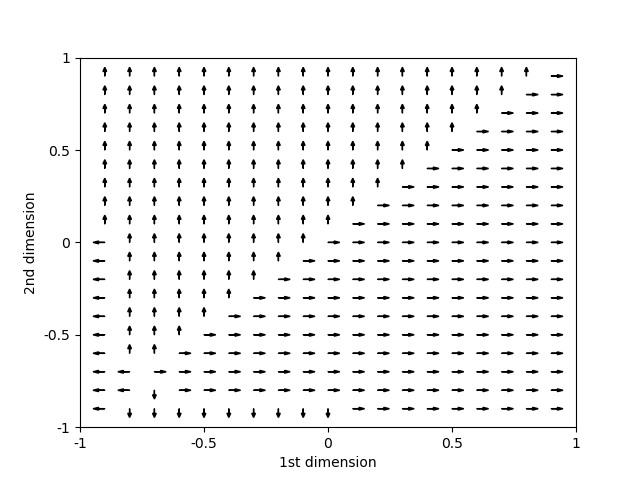
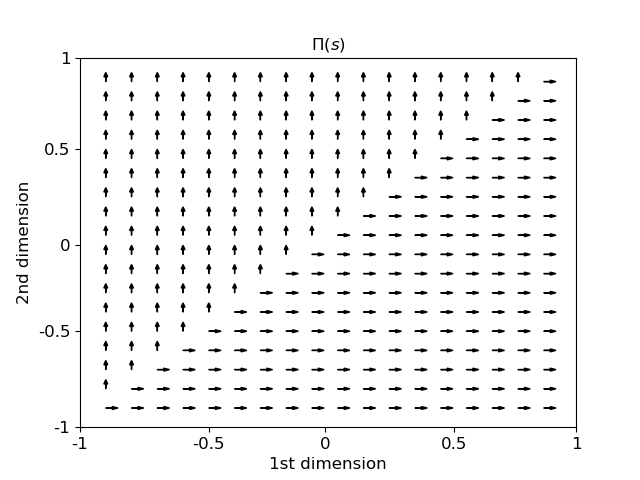
add discrete

diff --git a/Studies/Study_discrete/discrete.py b/Studies/Study_discrete/discrete.py
@@ -5,73 +5,56 @@ import matplotlib.pyplot as plt
 import matplotlib
 
 
+
 def value_iteration(mdp, state_size, action_size, value_iter=10, gamma=0.9):
-
     V_old = np.zeros((state_size))
-
     for _ in range(value_iter):
         V_new = np.zeros(state_size)
         for state, _ in enumerate(V_new):
-
             actions = list(mdp[state].keys())
             action_values = np.zeros(action_size)
-
             for action in actions:
                 temp=0
                 for new_state in mdp[state][action]:
                     temp += new_state[0] * (new_state[2] + gamma * V_old[new_state[1]])
                 action_values[action]=temp
             V_new[state] = np.max(action_values)
-
         V_old = V_new
-
     Policy = np.zeros((state_size, action_size))
-
     for state, _ in enumerate(V_old):
         argmax = 0
         value = float("-inf")
-
         actions = list(mdp[state].keys())
         action_values = np.zeros(action_size)
-
         for action in actions:
             temp=0
             for new_state in mdp[state][action]:
                 temp += new_state[0] * (new_state[2] + gamma * V_old[new_state[1]])
             action_values[action]=temp
-
-        print(Policy[state])
-        if len(Policy[state]) > 0:
+        if len(mdp[state]) > 0:
             Policy[state][actions[np.argmax(action_values)]] = 1
-
     return V_old, Policy
 
 
 
 def next_state(state,action,n_discrete):
-
     if action == 0: #left
         if state%n_discrete > 0:
             return state-1
-
     if action == 1: #right
         if state%n_discrete < n_discrete-1:
             return state+1
-
     if action == 2: #up
         if state//n_discrete < n_discrete-1:
             return state+n_discrete
-
     if action == 3: #down
         if state//n_discrete > 0:
             return state-n_discrete
-    
     return state
 
 
 
 def reward(state,n_discrete):
-
     if state%n_discrete == 0 or state//n_discrete == 0:
         return 0.1
     elif state%n_discrete == n_discrete-1 or state//n_discrete == n_discrete-1:
@@ -80,57 +63,45 @@ def reward(state,n_discrete):
         return 0
 
 
-def mdp_hypercube_2(n_discrete=21):
 
+def mdp_hypercube_2(n_discrete=21):
     actions = np.arange(4) #0:left 1:right 2:up 3:down
     mdp = dict()
-
     for lin in range(n_discrete):
         for col in range(n_discrete):
             state = col + lin * n_discrete
             mdp[state]=dict()
-            for action in actions:
-                next_state_v = next_state(state,action,n_discrete)
-                reward_v = reward(next_state_v,n_discrete)
-                if reward_v > 0:
-                    done = True
-                else:
-                    done = False
-                if not done:
+            done = reward(state,n_discrete) > 0
+            if not done:
+                for action in actions:
+                    next_state_v = next_state(state,action,n_discrete)
+                    reward_v = reward(next_state_v,n_discrete)
+                    done = reward_v > 0
                     mdp[state][action]=[(1,next_state_v,reward_v,done)]
-
     return mdp
 
 
 
-if __name__ == "__main__":
-
-    n_discrete=82
-    mdp = mdp_hypercube_2(n_discrete)
-
-    """
-    ##policy iteration
-    values, policy = policy_iteration(mdp,n_discrete**2,4,20,20,0.2)
-    """
-
-    ##value iteration
-    values, policy = value_iteration(mdp,n_discrete**2,4,50,0.99)
-
+def plot_contour(values,n_discrete):
     fig, ax = plt.subplots(1)
+    plt.title('$V(s)$',fontsize=12)
     plt.set_cmap('RdYlGn')
-    colorset = ax.imshow(values.reshape((n_discrete,n_discrete)),origin="lower")
-    #,norm = matplotlib.colors.LogNorm(), )
+    values = values.reshape((n_discrete,n_discrete))
+    values = values[1:-1,1:-1]
+    colorset = ax.imshow(values,origin="lower")
     colorbar = fig.colorbar(colorset)
-    colorbar.ax.set_ylabel('Q values')
-    #colorbar.set_clim(0.1,1)
-    plt.xticks([0,5,10,15,20], [-1,-0.5,0,0.5,1])
-    plt.yticks([0,5,10,15,20], [-1,-0.5,0,0.5,1])
-    ax.set_xlabel('1st dimension')
-    ax.set_ylabel('2nd dimension')
+    colorbar.ax.tick_params(labelsize=12)
+    colorbar.set_clim(0.1,1)
+    plt.xticks([0,n_discrete//4,n_discrete//2-2,3*n_discrete//4-2,n_discrete-3], [-1,-0.5,0,0.5,1],fontsize=12)
+    plt.yticks([0,n_discrete//4,n_discrete//2-2,3*n_discrete//4-2,n_discrete-3], [-1,-0.5,0,0.5,1],fontsize=12)
+    ax.set_xlabel('1st dimension',fontsize=12)
+    ax.set_ylabel('2nd dimension',fontsize=12)
     plt.show()
-
     fig.savefig("discrete_contour.png")
 
+
+
+def plot_arrow(policy,n_discrete):
     a = np.arange(0,n_discrete,2)
     b = np.arange(0,n_discrete//2,2)
     states = np.arange((n_discrete)**2).reshape((n_discrete,n_discrete))
@@ -147,8 +118,8 @@ if __name__ == "__main__":
     pis = pis[:,b]
     pis = pis[1:-1,1:-1]
     pis = pis.flatten()
-
     fig, ax = plt.subplots(1)
+    plt.title('$\Pi(s)$',fontsize=12)
     for pi,state in zip(pis,states):
         x_pos , y_pos = state%(n_discrete) , state//(n_discrete)
         if pi == 0: #left
@@ -159,12 +130,19 @@ if __name__ == "__main__":
             x_pi , y_pi = 0 , 1
         if pi == 3: #down
             x_pi , y_pi = 0 , -1
-        #plt.plot(x_pos, y_pos, '.', color="black")
         plt.arrow(x_pos, y_pos, x_pi, y_pi, color="black", width=0.03, head_width=0.6)
-    plt.xticks([0,20,40,60,80], [-1,-0.5,0,0.5,1])
-    plt.yticks([0,20,40,60,80], [-1,-0.5,0,0.5,1])
-    plt.xlabel('1st dimension')
-    plt.ylabel('2nd dimension')
+    plt.xticks([0,n_discrete//4,n_discrete//2-2,3*n_discrete//4-2,n_discrete-3], [-1,-0.5,0,0.5,1],fontsize=12)
+    plt.yticks([0,n_discrete//4,n_discrete//2-2,3*n_discrete//4-2,n_discrete-3], [-1,-0.5,0,0.5,1],fontsize=12)
+    plt.xlabel('1st dimension',fontsize=12)
+    plt.ylabel('2nd dimension',fontsize=12)
     plt.show()
-
     fig.savefig("discrete_arrow.png")
+
+
+
+if __name__ == "__main__":
+    n_discrete=80
+    mdp = mdp_hypercube_2(n_discrete)
+    values, policy = value_iteration(mdp,n_discrete**2,4,n_discrete,0.97)
+    plot_contour(values,n_discrete)
+    plot_arrow(policy,n_discrete)
